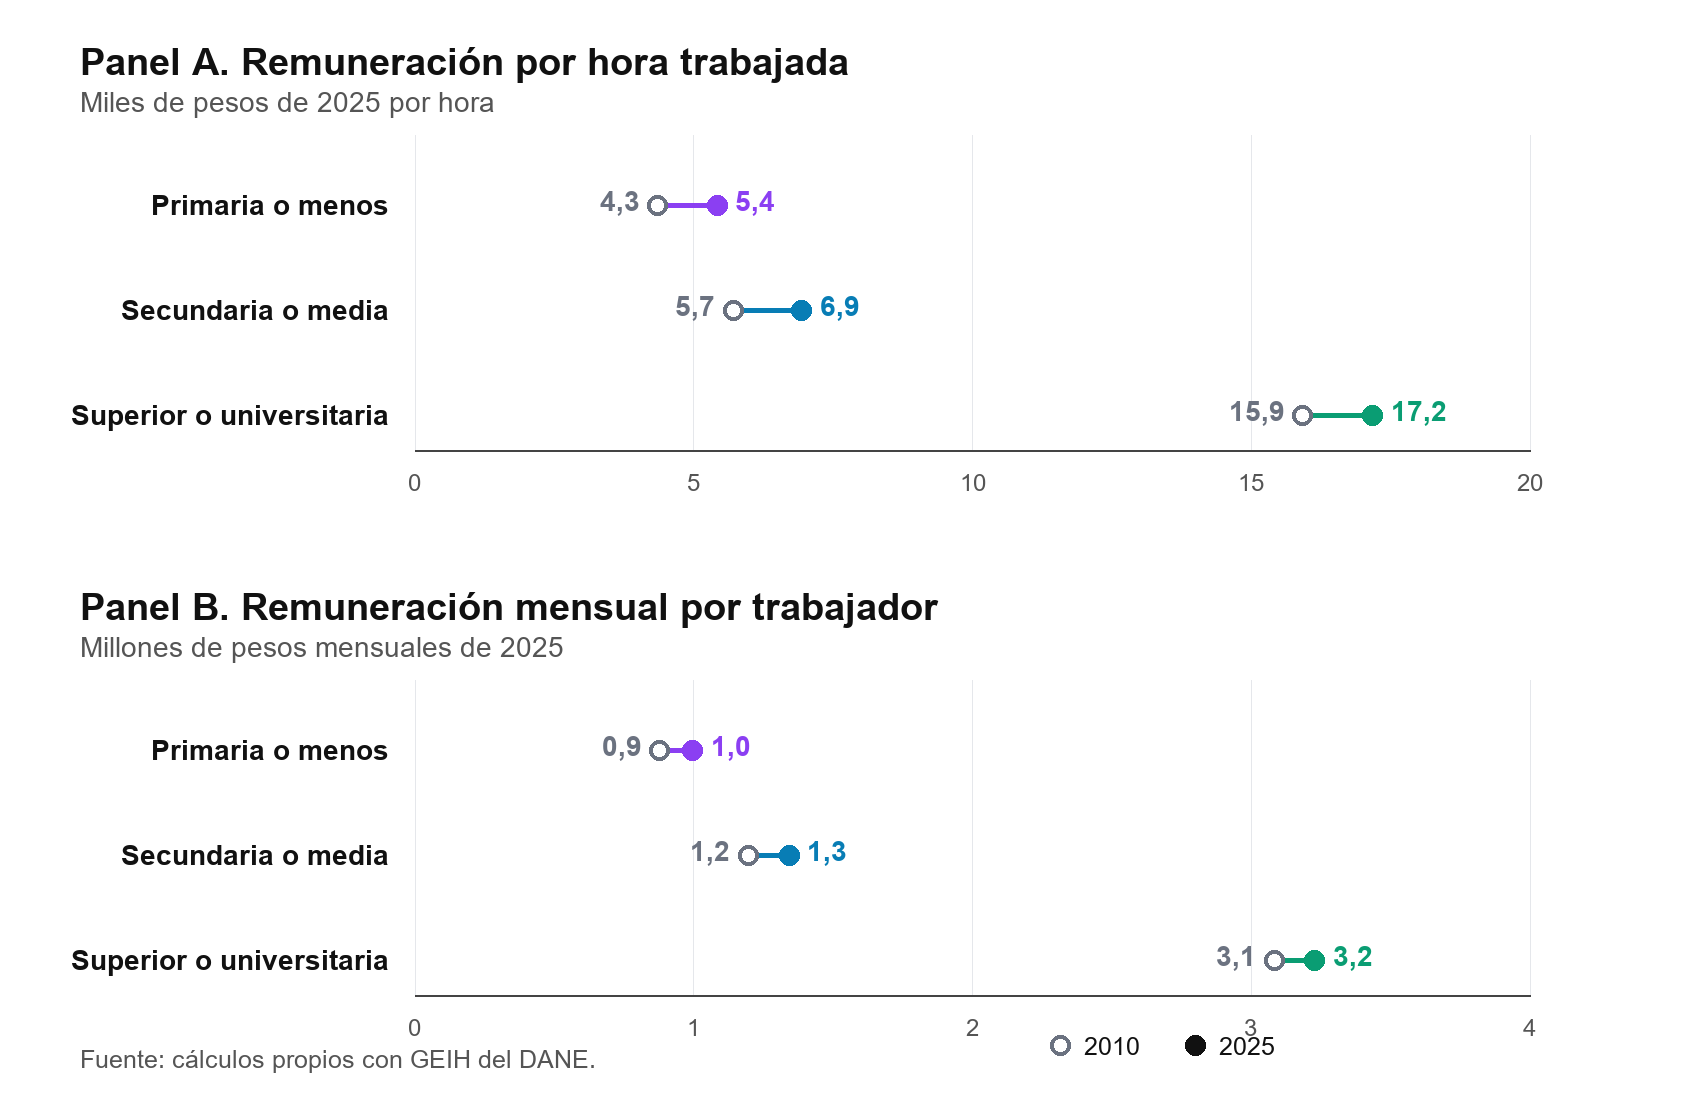
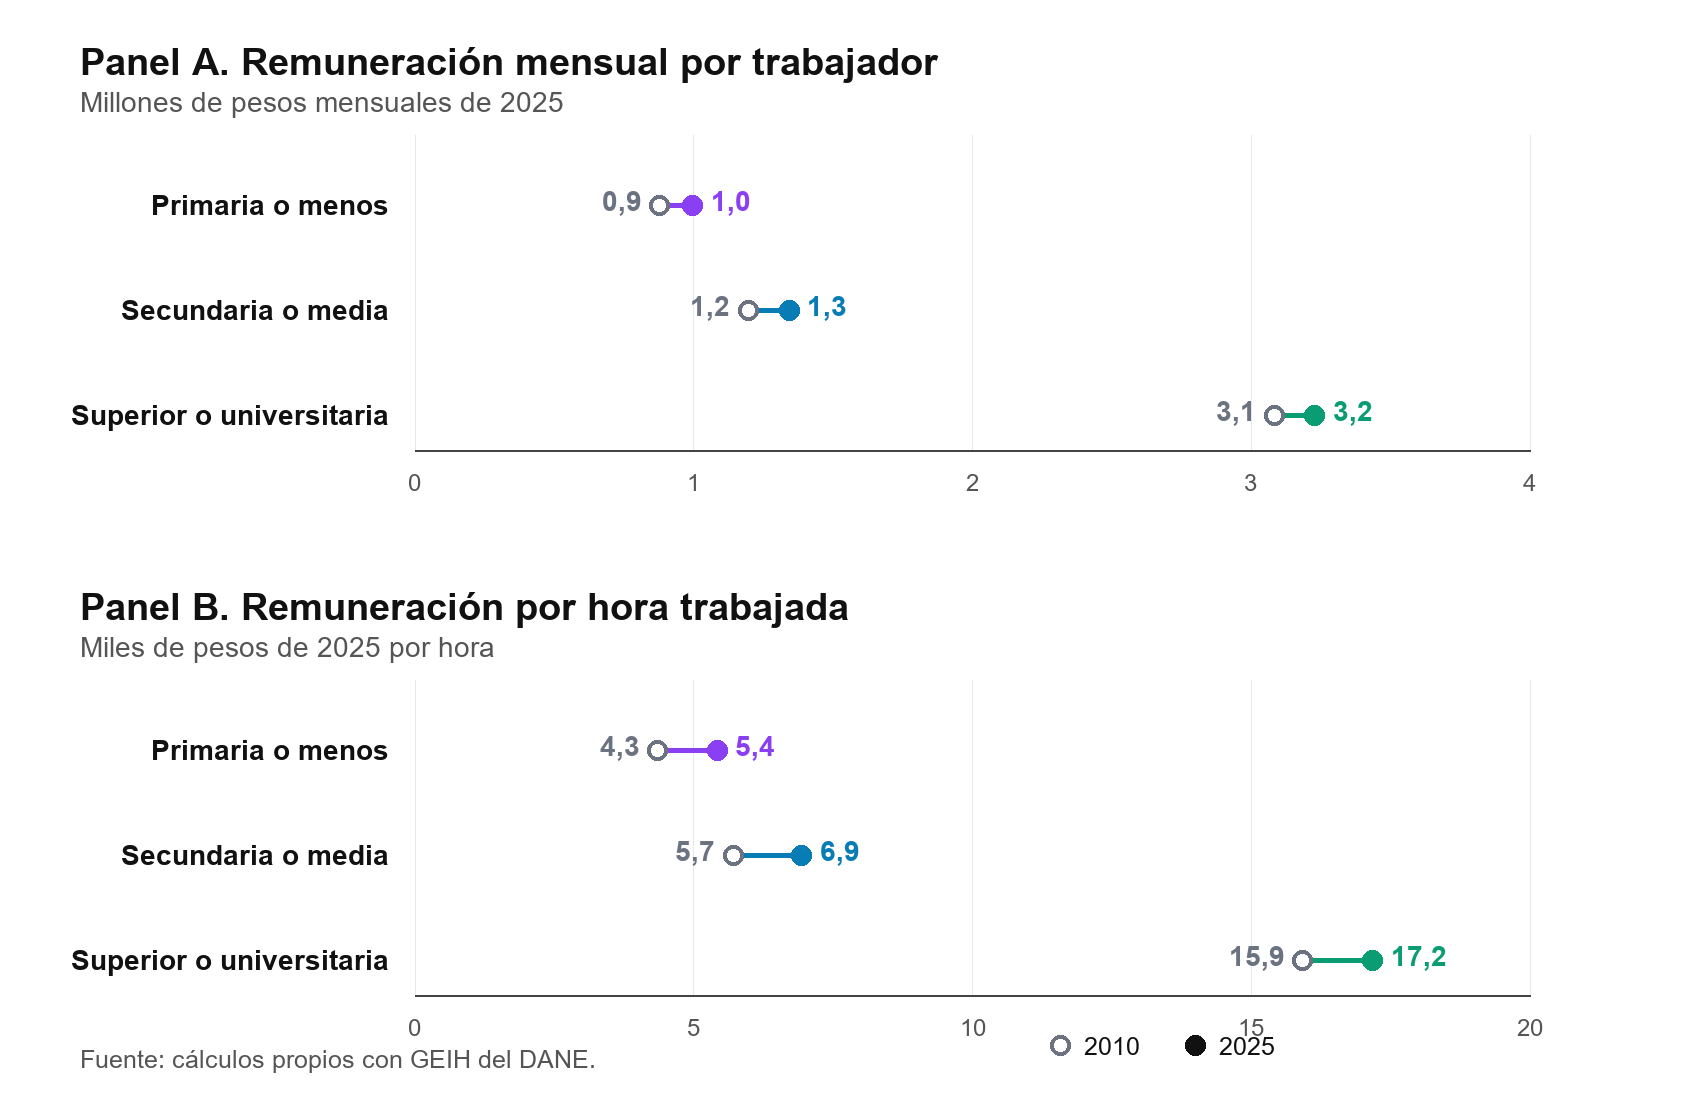
Invierte paneles de figura inicial

diff --git a/scripts/create_education_levels_figure.py b/scripts/create_education_levels_figure.py
@@ -173,22 +173,22 @@ def main() -> None:
         draw,
         rows,
         40,
-        "Panel A. Remuneración por hora trabajada",
-        "Miles de pesos de 2025 por hora",
-        ("hour_2010", "hour_2025"),
-        [0, 5, 10, 15, 20],
-        20,
+        "Panel A. Remuneración mensual por trabajador",
+        "Millones de pesos mensuales de 2025",
+        ("worker_2010", "worker_2025"),
+        [0, 1, 2, 3, 4],
+        4,
         0,
     )
     draw_panel(
         draw,
         rows,
         585,
-        "Panel B. Remuneración mensual por trabajador",
-        "Millones de pesos mensuales de 2025",
-        ("worker_2010", "worker_2025"),
-        [0, 1, 2, 3, 4],
-        4,
+        "Panel B. Remuneración por hora trabajada",
+        "Miles de pesos de 2025 por hora",
+        ("hour_2010", "hour_2025"),
+        [0, 5, 10, 15, 20],
+        20,
         0,
     )
     draw_text(draw, (80, 1045), "Fuente: cálculos propios con GEIH del DANE.", MUTED, 25)

diff --git a/Paper/sections/CuerpoInformeRemuneracionEducacionGEIH.tex b/Paper/sections/CuerpoInformeRemuneracionEducacionGEIH.tex
@@ -73,7 +73,7 @@ El primer término mide cuánto cambia la remuneración promedio de la població
 
 \textbf{Antes de abrir el logro educativo en credenciales finas, conviene mirar la serie larga con una clasificación estable.} Esta sección responde tres preguntas: cómo cambió la composición educativa del empleo con remuneración observable, cómo evolucionó la remuneración por trabajador y por hora en cada grupo, y cuánto del aumento agregado provino de mayor productividad de cada logro educativo frente a cambios en el logro educativo de la población ocupada.
 
-\textbf{La Figura \ref{fig:remuneracion_educacion_niveles_2025} abre la sección con una comparación directa entre 2010 y 2025.} El Panel A muestra la remuneración por hora trabajada y el Panel B muestra la remuneración mensual por trabajador. En ambos indicadores, la educación superior mantiene la remuneración más alta. La distancia entre logros educativos es mayor que el movimiento observado dentro de cada logro entre 2010 y 2025.
+\textbf{La Figura \ref{fig:remuneracion_educacion_niveles_2025} abre la sección con una comparación directa entre 2010 y 2025.} El Panel A muestra la remuneración mensual por trabajador y el Panel B muestra la remuneración por hora trabajada. En ambos indicadores, la educación superior mantiene la remuneración más alta. La distancia entre logros educativos es mayor que el movimiento observado dentro de cada logro entre 2010 y 2025.
 
 \begin{figure}[H]
   \centering